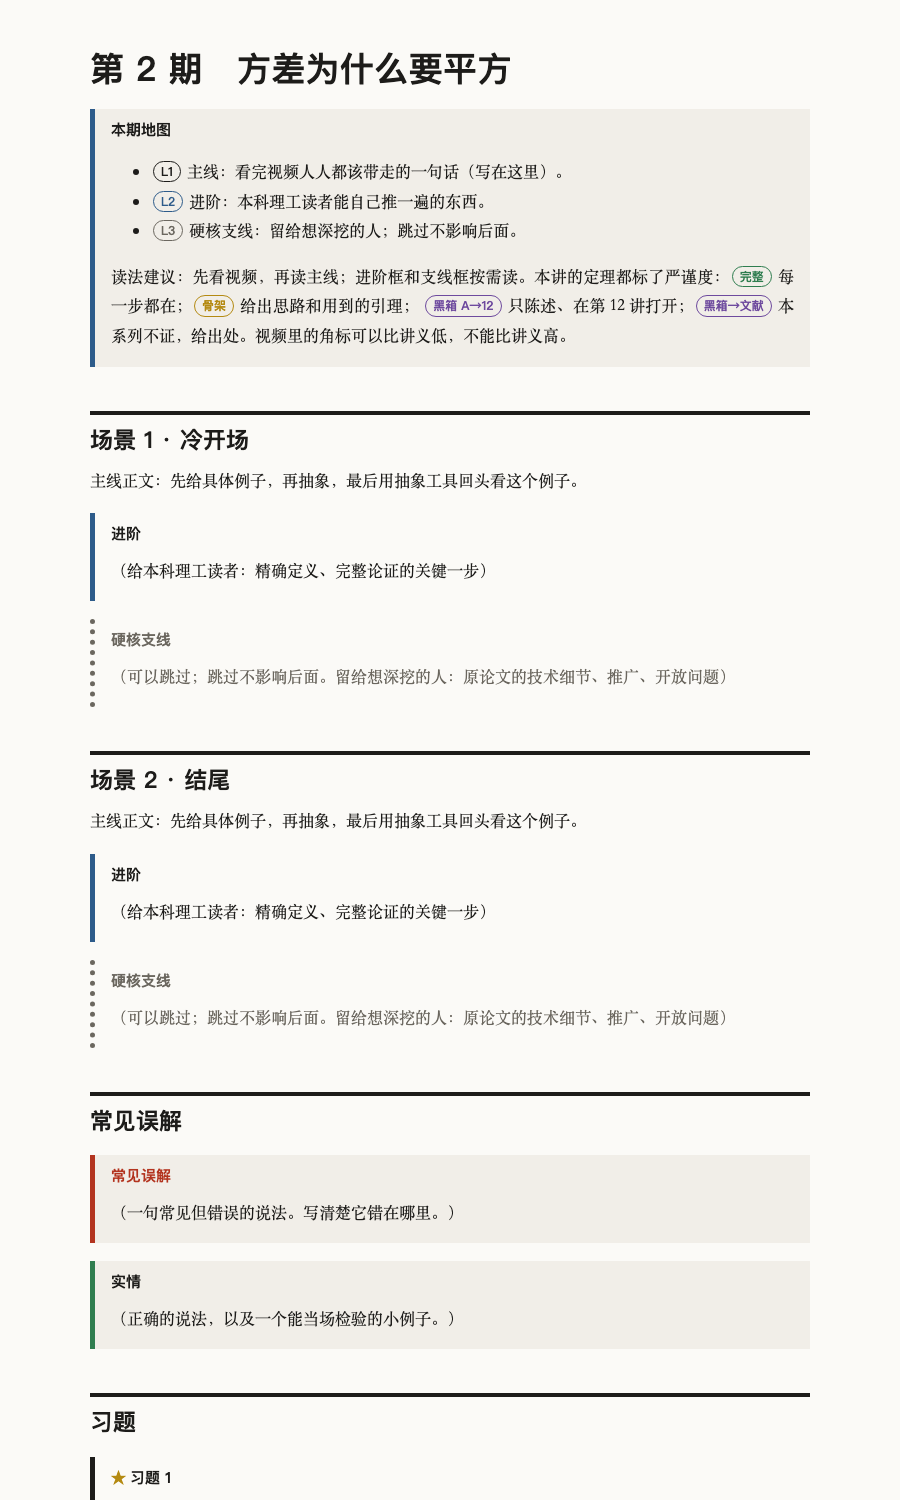
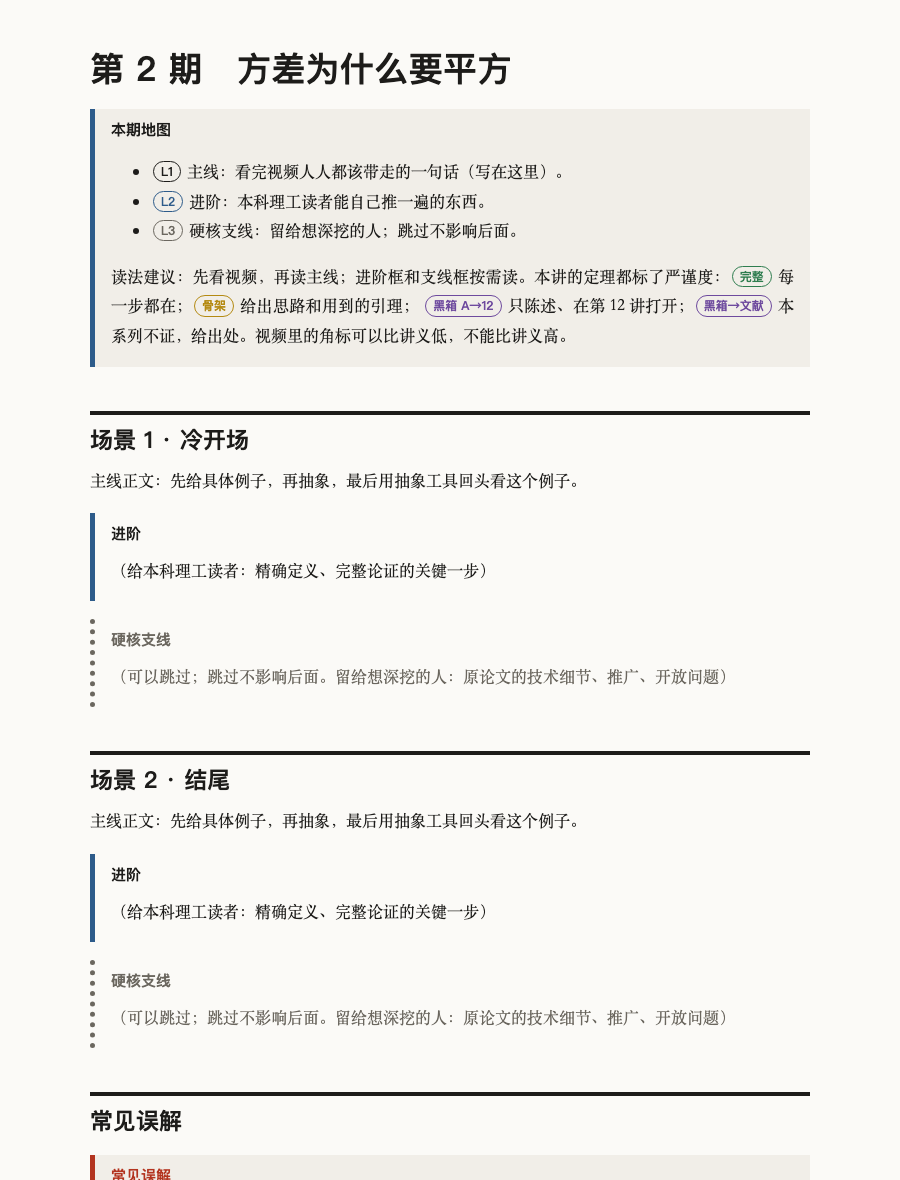
README: absolute Releases link; handout image no longer floats

diff --git a/README.md b/README.md
@@ -163,8 +163,6 @@ $ ./kepu lint script/episodes/ep01.md
 
 ## 讲义 · 逐字稿 · 分级
 
-<img src="docs/images/handout.png" alt="讲义 PDF 的一页：本期地图、进阶框、硬核支线框、严谨度徽章" width="62%" align="right">
-
 - **讲义先写，稿子后写**：屏幕上的定理从讲义里复制。
 - `kepu notes build` 生成可打印的 HTML 和 PDF，公式由 KaTeX 渲染。
 - 讲义里的元素：
@@ -181,7 +179,7 @@ $ ./kepu lint script/episodes/ep01.md
 - `--cut L1` 输出只保留主线的精简版清单。
 - `kepu transcript` 从同一份稿子生成逐字稿、B 站分段、.srt，三者天然一致。
 
-<br clear="right">
+<p align="center"><img src="docs/images/handout.png" alt="讲义 PDF 的一页：本期地图、进阶框、硬核支线框、严谨度徽章" width="70%"></p>
 
 ## 元认知：让流程自己发现自己的错
 
@@ -204,7 +202,7 @@ claude plugin marketplace add xiaoyulics/kepu-studio
 claude plugin install kepu-studio@kepu-studio-market
 ```
 
-**从压缩包安装**。在 [Releases](../../releases) 下载 `kepu-studio.zip`，解压，然后：
+**从压缩包安装**。在 [Releases](https://github.com/xiaoyulics/kepu-studio/releases) 下载 `kepu-studio.zip`，解压，然后：
 
 ```bash
 claude plugin marketplace add ./kepu-studio
